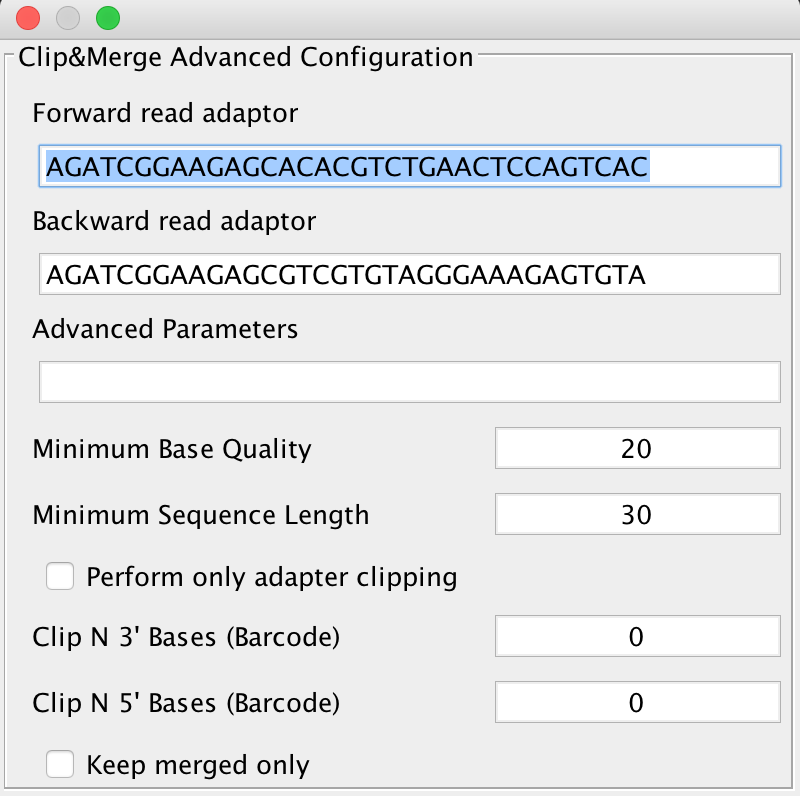
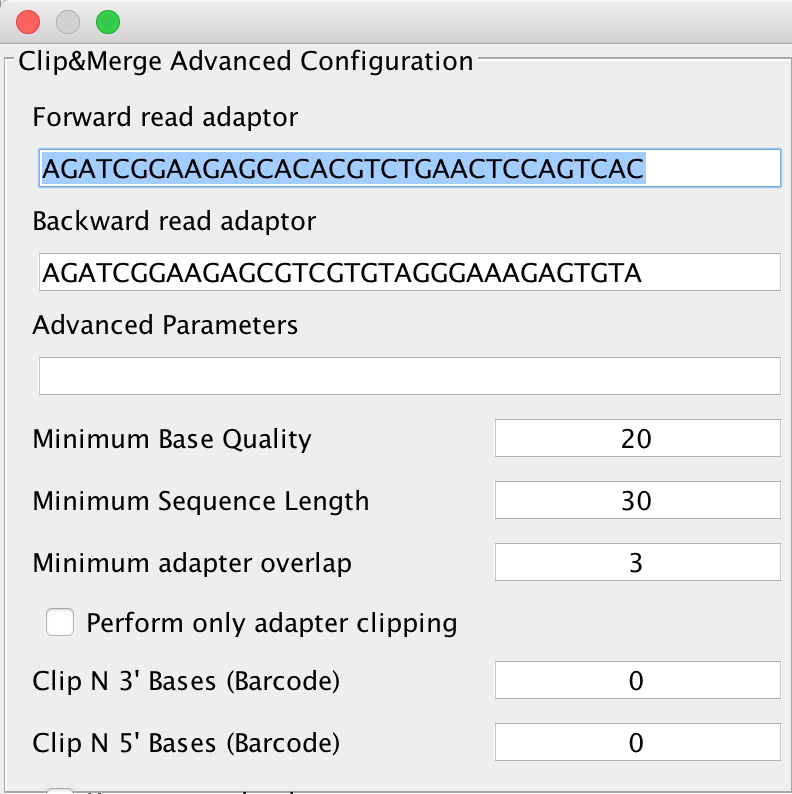
Updated Documentation for including adapterremoval, too.

diff --git a/docs/contents/moduledescription.rst b/docs/contents/moduledescription.rst
@@ -9,22 +9,31 @@ FastQC
 
 This module can not be configured and is utilized to gain first insight into a raw sequencing dataset to determine important basic statistics, such as for example GC content and average read lengths prior to modifying the data. This should be used whenever you want to analyze data coming from sequencing without having an idea if even sequencing was successful as it creates basic plots showing whether the data is suitable for further downstream analysis.
 
-Clip and Merge
---------------
+Adapter RM / Merging
+--------------------
 
-This is our in-house application for adapter clipping and read merging. Clicking on the *Advanced* button next to this application, will open up a configuration window as depicted below.
+Enables you to select either our in-house adapter clipping and read merging application Clip&Merge or AdapterRemoval v2.2+ for adapter removal and read merging.
+
+Clicking on the **Advanced** button next to this, you will get either the advanced configuration for Clip&Merge as depicted below:
 
 .. image:: images/modules/01_clipandmerge.png
     :width: 300px
     :height: 300px
     :align: center
 
-You can select forward and reverse read adapters here that are then subsequently clipped off your sequencing reads during analysis. Furthermore, Clip&Merge performs a base quality trimming of unmerged reads, filters out sequences falling below a certain length. If you don't want to merge your reads, you can also specify to only clip adapters without merging reads afterwards. Barcodes are supported too, you can specify to trim bases from both 3' and 5' ends as well in the application. Another feature is available to only include merged reads into downstream analysis. Unmerged reads are kept in separate files, one for forward and one for reverse reads, stored in the same folder than the merged ones but unused for further downstream analysis. 
+You can select forward and reverse read adapters here that are then subsequently clipped off your sequencing reads during analysis. Furthermore, Clip&Merge performs a base quality trimming of unmerged reads, filters out sequences falling below a certain length. Also, you can specify the minimum adapter overlap length you require (the number of bases of your specified adapter sequence required to overlap with your sequencing read). If you don't want to merge your reads, you can also specify to only clip adapters without merging reads afterwards. Barcodes are supported too, you can specify to trim bases from both 3' and 5' ends as well in the application. Another feature is available to only include merged reads into downstream analysis. Unmerged reads are kept in separate files, one for forward and one for reverse reads, stored in the same folder than the merged ones but unused for further downstream analysis.
 
 .. warning::
 
   Specifying wrong adapters, trimming too many bases here will result in poor analysis performance, so make sure beforehand which adapters to use in your analysis.
 
+
+In case you selected AdapterRemoval, you will be able to select basically the same criteria than for Clip&Merge. The **Advanced** setting will look like this in that case:
+
+.. image:: images/modules/01_adapterremoval.png
+    :width: 300px
+    :height: 300px
+    :align: center
 
 QualityFiltering
 ----------------
